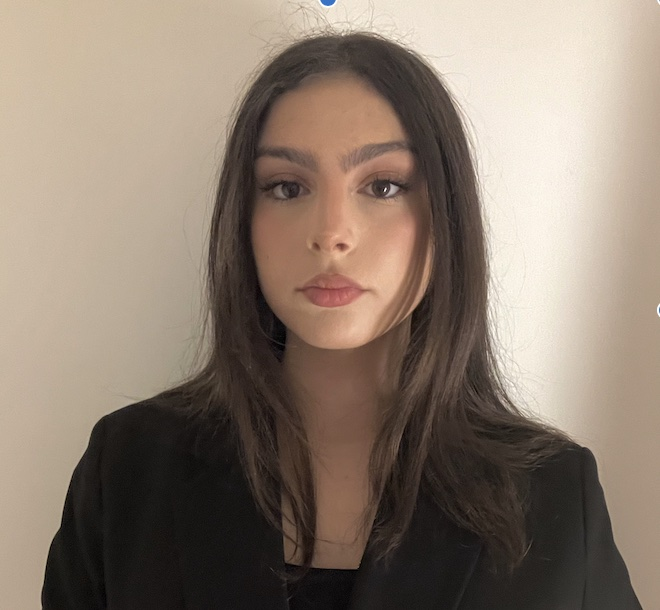
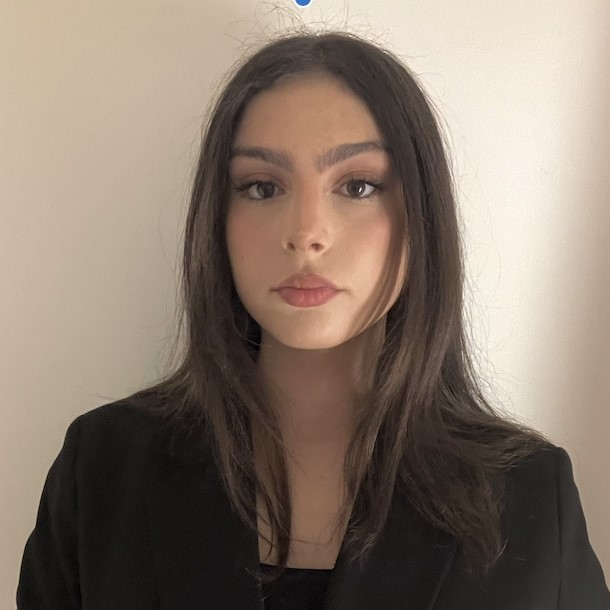
chagnes for presentation

diff --git a/capp/templates/home.html b/capp/templates/home.html
@@ -77,9 +77,11 @@
 
     <div class="developers">
         <div class="box">
-          <img src="https://randomuser.me/api/portraits/women/12.jpg" alt="" style="border-radius: 50%; width: 200px;">
+          <div class="img-container">
+            <img src="https://randomuser.me/api/portraits/women/12.jpg" alt="" >
+          </div>
           <h3>Maria Dobriyanova</h3>
-          <p>  Lorem ipsum dolor sit amet consectetur adipisicing elit. Nulla quia repellat omnis? Odit enim hic atque dolorem iste natus inventore perspiciatis vitae dolore animi veritatis aut nemo unde similique, officia reiciendis ex architecto voluptates soluta ab tempore facilis quisquam cum.
+          <p>  Lorem ipsum dolor sit amet consectetur adipisicing elit iste natus aut nemo unde similique, officia reiciendis ex architecto voluptates soluta ab tempore facilis quisquam cum.
           </p>
           <div class="section_container_buttons_developers">
             <a class="btn_developers" href="#"  target="_blank">Curriculum</a>
@@ -92,17 +94,20 @@
           <h3>Johanna Kronfuß</h3>
           <p>
             I am currently studying Business Informatics, where I focus on digitalization and its 
-            impact on modern businesses. Additionally, I have a deep passion for the environment and 
-            to finding sustainable solutions that can benefit both technology and the planet.
+            impact on businesses. Additionally, I have a deep for the environment and to save our planet.
           </p>
           <div class="section_container_buttons_developers">
             <a class="btn_developers" href="#"  target="_blank">Curriculum</a>
           </div> 
         </div>           
         <div class="box">
-          <img src="../static/images/Capture d’écran 2024-05-27 à 18.38.03.jpg"alt="" style="border-radius: 50%; width:150px;">
+          <div class="img-container">
+            <img src="../static/images/Capture d’écran 2024-05-27 à 18.38.03.jpg"alt="" >
+          </div>
           <h3>Yasmine Bejar</h3>
-          <p>  I am Yasmine, a student from Paris currently studying business and eager to learn more about the digital world.
+          <p>  I am Yasmine, a student from Paris currently studying business and eager 
+            to learn more about the digital world. I have a deep passion for the environment and 
+            to finding sustainable solutions.
           <div class="section_container_buttons_developers">
             <a class="btn_developers" href="#"  target="_blank">Curriculum</a>
           </div> 
@@ -124,9 +129,13 @@
         </div> 
       </div>
       <div class="box2">
-        <img src="../static/images/fotoixchel.jpg" alt="" style="border-radius: 50%; width:200px;">
+        <div class="img-container">
+          <img src="../static/images/fotoixchel.jpg" alt="">
+        </div>
         <h3>Ixchel Rodriguez</h3>
-        <p>  My name is Ixchel, I am currently on my last year of bachelors program in Economics and Business Economics at Maastricht University. I believe this project is essential for SMEs to start achieving sustainability and contribute to the locel wellness. 
+        <p>  My name is Ixchel, I am currently on my last year of bachelors program in Economics and Business Economics at 
+          Maastricht University. I believe this project is essential for SMEs to start achieving sustainability and 
+          contribute to the locel wellness. 
         </p>
         <div class="section_container_buttons_developers">
           <a class="btn_developers" href="#"  target="_blank">Curriculum</a>

diff --git a/capp/templates/methodology.html b/capp/templates/methodology.html
@@ -57,7 +57,7 @@
 
         <!--Enumerated list (table with two columns)-->
         <div class="methodology"> 
-            <div class="box_table2" style="height:200px;">
+            <!--<div class="box_table2" style="height:200px;">
                 <ol start="1">
                     <li>
                         <h4>Mathematical expressions 1</h4>
@@ -83,10 +83,10 @@
                     </li>
                 </ol>
             </div>  
-        </div>
+        </div>-->
 
         <!--Enumerated list (table with two columns)-->
-        <div class="methodology"> 
+        <!--<div class="methodology"> 
             <div class="box_table2" style="height:425px;">
                 <ol start="3">
                     <li>
@@ -131,7 +131,7 @@
                     </li>
                 </ol>
             </div>  
-        </div>
+        </div>-->
 
         
 

diff --git a/capp/templates/layout.html b/capp/templates/layout.html
@@ -43,7 +43,8 @@
           <div class="container">
             <div class="carbon_app_navbar">
               <h1 class="logo">
-                <span class="text-logo"><i class="fa-solid fa-leaf"></i> Carbon</span> App
+                <!--<span class="text-logo"><i class="fa-solid fa-leaf"></i> Carbon</span> App-->
+                <img src="../static/images/carbon wise.png" alt="" style="border-radius: 50%; width: 200px;">
               </h1>
               <nav>
                 <ul>

diff --git a/capp/templates/carbon_app/carbon_app.html b/capp/templates/carbon_app/carbon_app.html
@@ -56,13 +56,13 @@
                 </div>
             </div>
             </div>
-            <div class="box">
+            <!--<div class="box">
             <img 
                 src="{{url_for('static', filename='icons/calculator.svg')}}"
                 width="325" 
                 height="325"
                 alt=""/>
-            </div>
+            </div>-->
         </div>
         
         </div>
